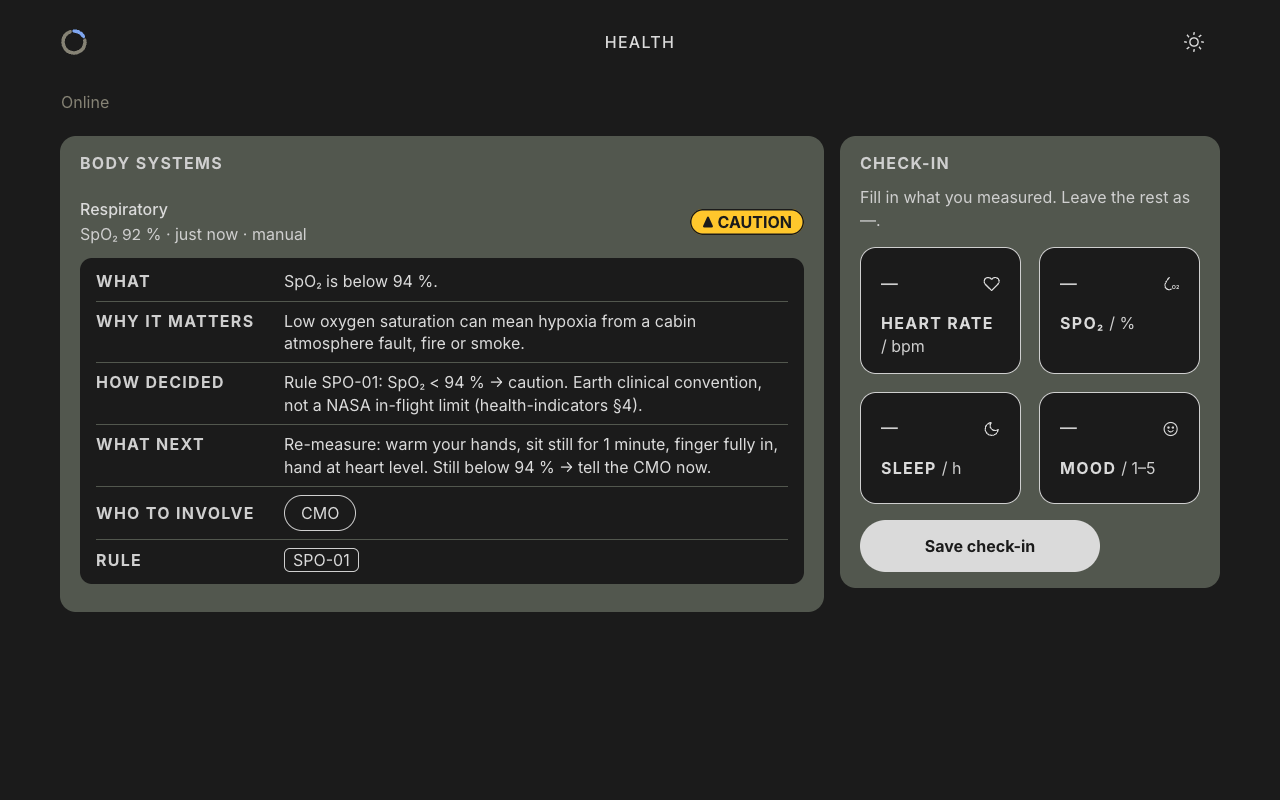
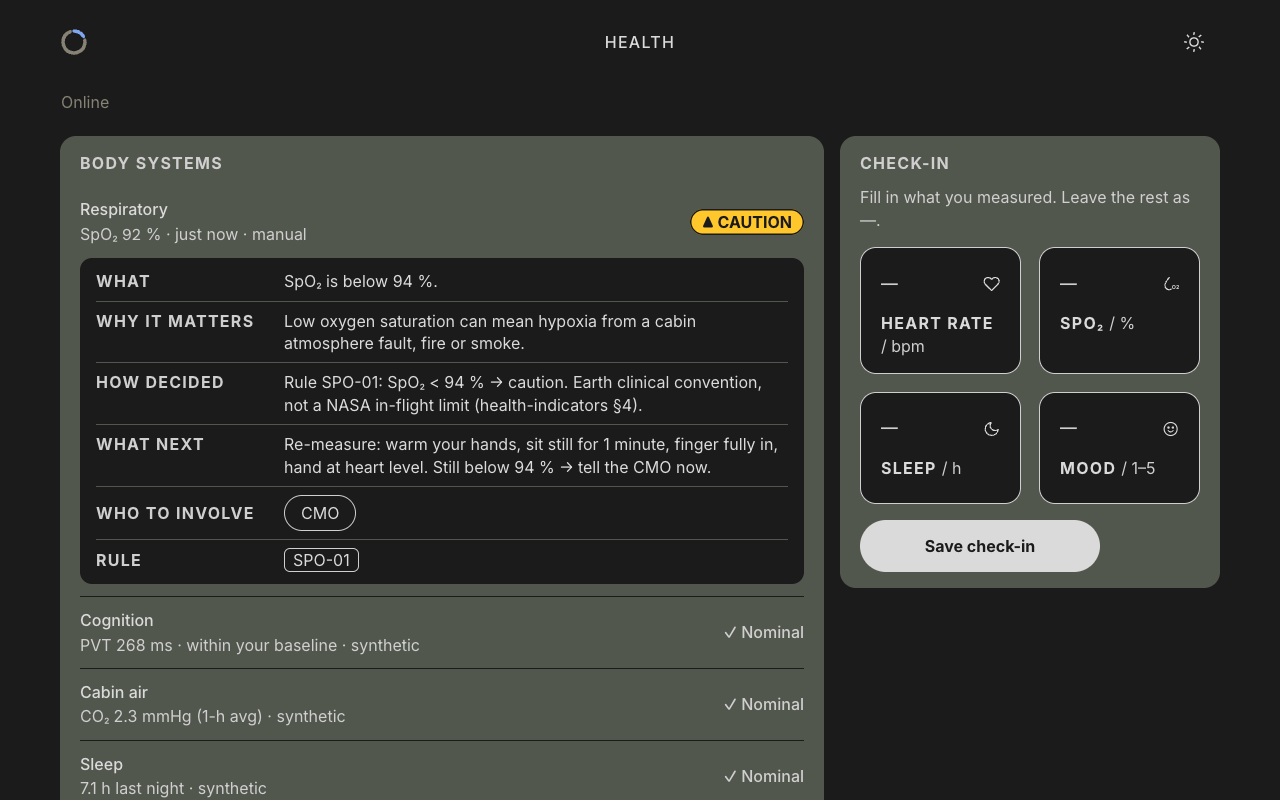
feat(status): body systems list with synthetic placeholders for the nine unbuilt systems (#4) (#5)
* docs: mock of the body systems list for issue #4

* chore(skills): UI issues embed a mock screenshot of the change

* chore: drop ai-log.md and its references

* feat(status): list the nine mockup body systems as synthetic placeholders after Respiratory (#4)

* feat(status): placeholder rows show their synthetic detail line, no age or explanation (#4)

Covers AC2-AC4 and AC6; AC2, AC4 and AC6 already held after AC1.

* test(status): rule-covered system drops its placeholder; placeholder type rejects caution and rule (#4)

* docs(status): feature doc with screenshots, F6 status and placeholder row guideline (#4)

Retakes the #1 screenshots, which now show the full list.

---------

Changed region(s): [[0.0312, 0.75, 0.6562, 1.0]]

diff --git a/src/main/frontend/src/ui/SystemStatusList.test.tsx b/src/main/frontend/src/ui/SystemStatusList.test.tsx
@@ -5,7 +5,8 @@ import { CheckInRecorder } from '../application/CheckInRecorder'
 import { SyncService } from '../application/SyncService'
 import { SystemStatusReader } from '../application/SystemStatusReader'
 import type { CheckIn } from '../domain/checkIn'
-import type { Rule } from '../domain/rules'
+import type { Placeholder, Rule } from '../domain/rules'
+import { mockStatuses } from '../infrastructure/mockStatuses'
 import rules from '../infrastructure/rules.json'
 import { FakeConnectivity, FakeGateway, FakeRepository, FakeRuleSource } from '../test/fakes'
 import { App } from './App'
@@ -18,7 +19,7 @@ const HOUR = 60 * MIN
 
 const reading = (id: string, recordedAt: string, spo2Percent?: number): CheckIn => ({ id, recordedAt, spo2Percent, symptoms: [] })
 
-function setup({ now = '2026-11-14T09:30:00Z', seed = [] as CheckIn[], online = true } = {}) {
+function setup({ now = '2026-11-14T09:30:00Z', seed = [] as CheckIn[], online = true, placeholders = [] as Placeholder[] } = {}) {
   const clock = { now: new Date(now) }
   const repository = new FakeRepository()
   seed.forEach((c) => repository.items.set(c.id, { checkIn: c, pending: false }))
@@ -32,7 +33,7 @@ function setup({ now = '2026-11-14T09:30:00Z', seed = [] as CheckIn[], online = 
     connectivity,
     synchronizer,
     recorder: new CheckInRecorder(repository, synchronizer, undefined, () => clock.now),
-    statusReader: new SystemStatusReader(ruleSource, repository, () => clock.now),
+    statusReader: new SystemStatusReader(ruleSource, repository, () => clock.now, placeholders),
   }
   return {
     clock,
@@ -234,5 +235,81 @@ describe('SystemStatusList', () => {
     expect(row()).toHaveClass('status-stale')
     expect(row()).toHaveTextContent('data 1 d old · manual')
     expectNoStatusIcon(row())
+  })
+})
+
+describe('Body systems with placeholders (#4)', () => {
+  const systemNames = (rows: HTMLElement[]) => rows.map((r) => r.querySelector('.status-system')?.textContent)
+
+  it('AC1: lists Respiratory (No data) then the nine placeholders in mockup order', async () => {
+    setup({ placeholders: mockStatuses }).renderApp()
+
+    const rows = await within(list()).findAllByRole('listitem')
+    expect(systemNames(rows)).toEqual([
+      'Respiratory',
+      'Cognition',
+      'Cabin air',
+      'Sleep',
+      'Immune',
+      'Cardiovascular',
+      'Bone & muscle',
+      'Vision (SANS)',
+      'Radiation',
+      'Kidney & hydration',
+    ])
+    expect(within(rows[0]).getByText('No data')).toBeInTheDocument()
+  })
+
+  it('AC2: SpO₂ 88 warns on Respiratory with SPO-02 while the placeholders stay nominal', async () => {
+    setup({ placeholders: mockStatuses }).renderApp()
+    await submitSpo2(88)
+
+    expect(await within(list()).findByText('WARNING')).toBeInTheDocument()
+    const [respiratory, ...others] = within(list()).getAllByRole('listitem')
+    expect(within(respiratory).getByText('SPO-02')).toBeInTheDocument()
+    texts(SPO02).forEach((text) => expect(respiratory).toHaveTextContent(text))
+    expect(others).toHaveLength(9)
+    others.forEach((r) => expect(within(r).getByText('✓ Nominal')).toBeInTheDocument())
+  })
+
+  it.each([
+    ['Cognition', 'PVT 268 ms · within your baseline'],
+    ['Cabin air', 'CO₂ 2.3 mmHg (1-h avg)'],
+    ['Sleep', '7.1 h last night'],
+    ['Immune', 'no new symptoms'],
+    ['Cardiovascular', 'HR 63 bpm · BP 108/70'],
+    ['Bone & muscle', 'Exercise 540/600 min/wk'],
+    ['Vision (SANS)', 'self-test done Wed · no changes'],
+    ['Radiation', '38% of 30-day limit'],
+    ['Kidney & hydration', 'Fluids 1.1/2.5 L today'],
+  ])('AC3: %s shows ✓ Nominal and "%s · synthetic"', async (system, detail) => {
+    setup({ placeholders: mockStatuses }).renderApp()
+
+    const rows = await within(list()).findAllByRole('listitem')
+    const row = rows[systemNames(rows).indexOf(system)]
+    expect(within(row).getByText('✓ Nominal')).toBeInTheDocument()
+    expect(within(row).getByText(`${detail} · synthetic`)).toBeInTheDocument()
+  })
+
+  it('AC4: placeholder rows show no explanation list and no data age', async () => {
+    setup({ placeholders: mockStatuses }).renderApp()
+
+    const [, ...placeholders] = await within(list()).findAllByRole('listitem')
+    placeholders.forEach((r) => {
+      expect(r.querySelector('dl')).toBeNull()
+      expect(r).not.toHaveTextContent(/ ago|just now| old\b/)
+    })
+  })
+
+  it.each([
+    ['rules', (s: ReturnType<typeof setup>) => void (s.ruleSource.fail = true)],
+    ['history', (s: ReturnType<typeof setup>) => void (s.repository.failList = true)],
+  ])('AC6: when the %s fail, shows "Status unavailable" and no placeholder rows', async (_, fail) => {
+    const s = setup({ placeholders: mockStatuses })
+    fail(s)
+    s.renderApp()
+
+    expect(await within(list()).findByText('Status unavailable')).toBeInTheDocument()
+    expect(within(list()).queryByRole('listitem')).toBeNull()
   })
 })

diff --git a/src/main/frontend/src/application/SystemStatusReader.test.ts b/src/main/frontend/src/application/SystemStatusReader.test.ts
@@ -1,6 +1,7 @@
 import { describe, expect, it } from 'vitest'
 import { JsonRuleSource } from '../infrastructure/JsonRuleSource'
 import { FakeRepository, FakeRuleSource } from '../test/fakes'
+import type { Placeholder, Rule } from '../domain/rules'
 import { SystemStatusReader } from './SystemStatusReader'
 
 describe('SystemStatusReader', () => {
@@ -14,6 +15,34 @@ describe('SystemStatusReader', () => {
 
     expect(status).toMatchObject({ system: 'Respiratory', state: 'warning', value: 88 })
     expect(status.rule?.id).toBe('SPO-02')
+  })
+
+  it('AC5: a system with rules drops its placeholder and keeps its rule-table position', async () => {
+    const [spo01] = await new JsonRuleSource().load()
+    const sleepRule: Rule = { ...spo01, id: 'TEST-SLEEP', system: 'Sleep', indicator: 'sleepHours', validMin: 0, validMax: 24, below: 6 }
+    const placeholders: Placeholder[] = [
+      { system: 'Cognition', state: 'nominal', detail: 'c', source: 'synthetic' },
+      { system: 'Sleep', state: 'nominal', detail: 's', source: 'synthetic' },
+    ]
+    const reader = new SystemStatusReader(new FakeRuleSource([spo01, sleepRule]), new FakeRepository(), undefined, placeholders)
+
+    const statuses = await reader.read()
+
+    expect(statuses.map((s) => [s.system, s.source])).toEqual([
+      ['Respiratory', 'manual'],
+      ['Sleep', 'manual'],
+      ['Cognition', 'synthetic'],
+    ])
+  })
+
+  it('AC7: placeholders can only be nominal and carry no rule (checked by tsc -b)', () => {
+    const invalid = [
+      // @ts-expect-error a placeholder is never a caution
+      { system: 'Sleep', state: 'caution', detail: 's', source: 'synthetic' },
+      // @ts-expect-error a placeholder has no rule to explain
+      { system: 'Sleep', state: 'nominal', detail: 's', source: 'synthetic', rule: undefined },
+    ] satisfies Placeholder[]
+    expect(invalid).toHaveLength(2)
   })
 
   it('rejects when the rules fail to load', async () => {

diff --git a/src/main/frontend/src/infrastructure/mockStatuses.ts b/src/main/frontend/src/infrastructure/mockStatuses.ts
@@ -1,0 +1,14 @@
+import type { Placeholder } from '../domain/rules'
+
+/** Synthetic values for the body systems of ideas/mockups/01-body-map.png that have no rules yet (issue #4). */
+export const mockStatuses: Placeholder[] = [
+  { system: 'Cognition', state: 'nominal', detail: 'PVT 268 ms · within your baseline', source: 'synthetic' },
+  { system: 'Cabin air', state: 'nominal', detail: 'CO₂ 2.3 mmHg (1-h avg)', source: 'synthetic' },
+  { system: 'Sleep', state: 'nominal', detail: '7.1 h last night', source: 'synthetic' },
+  { system: 'Immune', state: 'nominal', detail: 'no new symptoms', source: 'synthetic' },
+  { system: 'Cardiovascular', state: 'nominal', detail: 'HR 63 bpm · BP 108/70', source: 'synthetic' },
+  { system: 'Bone & muscle', state: 'nominal', detail: 'Exercise 540/600 min/wk', source: 'synthetic' },
+  { system: 'Vision (SANS)', state: 'nominal', detail: 'self-test done Wed · no changes', source: 'synthetic' },
+  { system: 'Radiation', state: 'nominal', detail: '38% of 30-day limit', source: 'synthetic' },
+  { system: 'Kidney & hydration', state: 'nominal', detail: 'Fluids 1.1/2.5 L today', source: 'synthetic' },
+]

diff --git a/src/main/frontend/src/application/SystemStatusReader.ts b/src/main/frontend/src/application/SystemStatusReader.ts
@@ -1,5 +1,5 @@
 import type { CheckInHistory, RuleSource } from '../domain/ports'
-import type { SystemStatus } from '../domain/rules'
+import type { Placeholder, SystemStatus } from '../domain/rules'
 import { evaluate } from './evaluate'
 
 export class SystemStatusReader {
@@ -8,10 +8,14 @@ export class SystemStatusReader {
     private readonly history: CheckInHistory,
     /** Public so the UI prints ages against the same clock the rules used. */
     readonly now: () => Date = () => new Date(),
+    /** Listed after the evaluated systems; a system with rules drops its placeholder. */
+    private readonly placeholders: Placeholder[] = [],
   ) {}
 
   async read(): Promise<SystemStatus[]> {
     const [rules, checkIns] = await Promise.all([this.rules.load(), this.history.list()])
-    return evaluate(rules, checkIns, this.now())
+    const evaluated = evaluate(rules, checkIns, this.now())
+    const covered = new Set(evaluated.map((s) => s.system))
+    return [...evaluated, ...this.placeholders.filter((p) => !covered.has(p.system))]
   }
 }

diff --git a/src/main/frontend/src/container.ts b/src/main/frontend/src/container.ts
@@ -7,6 +7,7 @@ import { BrowserConnectivityMonitor } from './infrastructure/BrowserConnectivity
 import { HttpCheckInGateway } from './infrastructure/HttpCheckInGateway'
 import { IndexedDbCheckInRepository } from './infrastructure/IndexedDbCheckInRepository'
 import { JsonRuleSource } from './infrastructure/JsonRuleSource'
+import { mockStatuses } from './infrastructure/mockStatuses'
 
 export interface Services {
   recorder: CheckInRecording
@@ -26,7 +27,7 @@ export function createServices(): Services & { startSync: () => () => void } {
     connectivity,
     synchronizer: syncService,
     recorder: new CheckInRecorder(repository, syncService),
-    statusReader: new SystemStatusReader(new JsonRuleSource(), repository),
+    statusReader: new SystemStatusReader(new JsonRuleSource(), repository, undefined, mockStatuses),
     startSync: () => syncService.start(),
   }
 }

diff --git a/src/main/frontend/src/domain/rules.ts b/src/main/frontend/src/domain/rules.ts
@@ -29,7 +29,17 @@ export interface SystemStatus {
   unit?: string
   value?: number
   recordedAt?: string
-  source: 'manual'
+  /** Free-text sub line, only on placeholders. */
+  detail?: string
+  source: 'manual' | 'synthetic'
   /** Only for caution and warning. */
   rule?: Rule
+}
+
+/** Synthetic stand-in for a body system with no rules yet; always nominal, never explained or aged. */
+export interface Placeholder {
+  system: string
+  state: 'nominal'
+  detail: string
+  source: 'synthetic'
 }

diff --git a/src/main/frontend/src/ui/SystemStatusList.tsx b/src/main/frontend/src/ui/SystemStatusList.tsx
@@ -52,6 +52,7 @@ function StatusRow({ status, now }: { status: SystemStatus; now: Date }) {
               <span>{`${age} · ${status.source}`}</span>
             </div>
           )}
+          {status.detail !== undefined && <div className="status-sub">{`${status.detail} · ${status.source}`}</div>}
         </div>
         <Badge state={state} />
       </div>

diff --git a/docs/features/4-body-systems-list.md b/docs/features/4-body-systems-list.md
@@ -1,0 +1,31 @@
+# #4 Body systems list: Respiratory plus synthetic placeholders
+
+The "Body systems" card on home lists all ten systems of mockup 01. Respiratory is the only system with rules (SPO-01/02, [#1](1-spo2-core-loop.md)), so it shows real check-in data. The other nine show fixed synthetic values from `src/main/frontend/src/infrastructure/mockStatuses.ts`, always "✓ Nominal", labelled "synthetic", with no data age and no explanation. When a rule row is added for one of those systems, its placeholder disappears and the real status takes its place. Feature F6 in [features.md](../../ideas/features.md); issue [#4](https://github.com/jdo-lv/galagans/issues/4).
+
+**Try it:** `mvn clean verify`, then `mvn spring-boot:run`, open http://localhost:8080, enter an SpO₂ value and click "Save check-in". **Retake the screenshots** with the app running: `target/node/node docs/features/4-body-systems-list.shots.mjs` (script: [4-body-systems-list.shots.mjs](4-body-systems-list.shots.mjs)).
+
+## Screens
+
+### No check-ins yet
+Respiratory shows "No data"; the nine placeholders follow in mockup 01 order.
+![No data](img/4-no-data.png)
+
+### Caution (SpO₂ 92, rule SPO-01)
+Only Respiratory changes; the placeholders stay quiet.
+![Caution](img/4-caution.png)
+
+### Warning (SpO₂ 88, rule SPO-02)
+![Warning](img/4-warning.png)
+
+"Status unavailable" (rules or storage fail to load, so no rows at all, placeholders included) can't be triggered from the running app; it's covered by `SystemStatusList.test.tsx` (AC6).
+
+## Mockup and deviations
+
+The list follows the "Body systems" panel of [01-body-map.png](../../ideas/mockups/01-body-map.png): system name, muted sub line, status on the right. Styles follow [ui-guidelines.md](../../ideas/ui-guidelines.md) "Body-system list" (placeholder row added there).
+
+| Deviation | Reason |
+|---|---|
+| Cognition, Cabin air and Sleep are "✓ Nominal", not CAUTION | A caution must show what / why / how decided / what next, and a placeholder has no rule behind it. The `Placeholder` type only allows nominal. |
+| Values reworded: Cognition "PVT 268 ms · within your baseline", Cabin air "CO₂ 2.3 mmHg (1-h avg)", Sleep "7.1 h last night", Vision "self-test done Wed · no changes" | The mockup's wording describes cautions or missed data, which contradicts a nominal row. CO₂ 2.3 mmHg is the median ISS cabin value ([data-sources.md](../../research/data-sources.md)). |
+| Respiratory row added at the top; no hazard-lens marks or dimming | Respiratory is the system with rules (#1); the hazard lens is a later feature. |
+| No body figure, hazard lens, routine or readings panels | Out of scope for #4. |

diff --git a/CLAUDE.md b/CLAUDE.md
@@ -8,7 +8,6 @@ This file provides guidance to Claude Code (claude.ai/code) when working with co
 - Research and idea evaluation in markdown, plus the app skeleton for the lead idea (Spring Boot + React PWA). Git repo on `main`.
 - Idea to implement: `ideas/crew-health-companion.md`. Every question and task in this repo relates to it unless stated otherwise.
 - Nov 13: challenge Resources tab and Judging & Awards guide publish. Update `challenge.md` and `ideas/viability-checklist.md` (judging criteria are currently assumed from past years).
-- The submission must describe AI tool use. Append a row to `ai-log.md` for every session that changes files.
 
 ## Build and run
 
@@ -42,7 +41,6 @@ This file provides guidance to Claude Code (claude.ai/code) when working with co
 - `ideas/features.md`: every feature of the lead idea in plain words, glossary, build order. Each built feature has a `Status:` line: `Implemented.` when done, otherwise what works and `Missing: …`.
 - `docs/features/<n>-<slug>.md`: one per implemented UI issue, with screenshots of each state from the running app (`docs/features/img/`), the mockup it follows and deviations. Screenshots retaken by `docs/features/<n>-<slug>.shots.mjs` using `tools/cdp.mjs`.
 - `ideas/ui-guidelines.md`: UI and UX rules from the palette canvas. Tokens live in `src/main/frontend/src/ui/theme/` (`tokens.css`, `base.css`); components use tokens and classes, never hex. Run its §8 checklist on every UI change.
-- `ai-log.md`: AI tool use log for the submission.
 - `spaceChallenges.md`: unsourced overview table with mangled journal citations. Don't cite it; trace claims to `research/` instead.
 
 ## Writing research and ideas

diff --git a/docs/features/1-spo2-core-loop.md b/docs/features/1-spo2-core-loop.md
@@ -40,6 +40,6 @@ Layout follows [01-body-map.png](../../ideas/mockups/01-body-map.png) ("Body sys
 | Red WARNING pill, not in the mockups | No mockup shows a warning; style from [ui-guidelines.md](../../ideas/ui-guidelines.md) §5 (status badge). |
 | Header with brand ring, "HEALTH" wordmark and theme toggle instead of the mockup's top bar of context pills | Canvas header from the guidelines; crew, mode and flight-day pills have no data yet. |
 | Text at least 16 px, inputs as field tiles, "Who to involve" as a pill and the rule id as a tag | Guidelines §3–§5 (NASA minimum text height; routing kept neutral and apart from urgency). The mockups use 11–14 px. |
-| One system (Respiratory), no body figure, hazard lens, routine or readings panels | Out of scope for #1. |
+| Only Respiratory has rules; no body figure, hazard lens, routine or readings panels | Out of scope for #1. The nine synthetic rows below Respiratory in these screenshots come from [#4](4-body-systems-list.md). |
 | Explanation inline in the row, not a separate detail screen; tier shown as a value, not the 4-step ladder | The issue puts the texts in the row (AC4, AC6); the detail screen is out of scope. |
 | Check-in form in a right-hand "Check-in" panel with all fields on one screen | No mockup for the current form; 06-questionnaire (one question per screen) is a later feature. Fields use the guidelines' field tile and primary button. |

diff --git a/.claude/skills/issue-create/SKILL.md b/.claude/skills/issue-create/SKILL.md
@@ -45,6 +45,8 @@ Three principles override speed:
 
    Style: Problem in 2–3 sentences; one line per AC, design note and touch point; link to the idea, features or `research/` instead of copying them; no background, intros or filler.
 
+   **Mock (UI issues).** Any change to what the crew or ground UI shows needs a mock screenshot embedded in the issue. Build the target state (prototype the change in the running app, or a mockup HTML in `ideas/mockups/src/` when the app can't show it yet), screenshot it with `tools/cdp.mjs` at 1280 px wide into `docs/features/img/<n>-mock.png` (`<n>` = next issue number, `gh issue list --state all --limit 1` and `gh pr list --state all --limit 1`), commit it on the branch `feat/<n>-<slug>`, push, and embed it as in [TRACKER.md](TRACKER.md#spec-sections). Show the screenshot to the user with the ACs. Done when the image URL in the draft loads (`gh api` on the blob path returns 200).
+
    **AC check with the user.** Before the skeptic, list the ACs to the user. For any AC you couldn't write with concrete values without assuming (a number, a label, a status, a unit, a wording), ask instead of picking. Done when the user has confirmed or corrected every AC that rested on a choice.
 
 6. **Skeptic pass.** Run the `spec-skeptic` agent on the draft file. Fix every finding, or ask the user when the fix is a decision. Repeat until it returns no findings.

diff --git a/.claude/skills/issue-create/TRACKER.md b/.claude/skills/issue-create/TRACKER.md
@@ -25,8 +25,9 @@ gh issue list --label ready-for-agent
 ## Spec sections
 
 An issue body has exactly these `###` sections, in order:
-`Problem`, `Acceptance criteria`, `Out of scope`, `Touch points`, `Design notes`, `Sources`, `Docs`, `Open questions`.
+`Problem`, `Mock` (UI issues only), `Acceptance criteria`, `Out of scope`, `Touch points`, `Design notes`, `Sources`, `Docs`, `Open questions`.
 
 - **Feature reference:** `Problem` names the feature id from `ideas/features.md` (e.g. F11) when there is one.
+- **Mock:** UI issues embed a screenshot of the screen as it will look after the change: `![<screen> mock](https://github.com/jdo-lv/galagans/blob/<sha>/docs/features/img/<n>-mock.png?raw=true)` (commit permalink, so it survives branch deletion; the repo is private, so the image shows to signed-in members only). One line under it names the mockup in `ideas/mockups/` it follows and any deviation.
 - **Sources:** every threshold, rule row, hint or medical claim in the issue, with its `research/` file and section (and source id, e.g. `[S26]`). `None` when the issue has none.
 - **Docs:** UI issues always include `docs/features/<n>-<slug>.md` (feature doc with screenshots). Plus which of `ideas/crew-health-companion.md`, `ideas/features.md`, `ideas/mockups/src/*`, `README.md` or `CLAUDE.md` change. `None` when nothing does.
